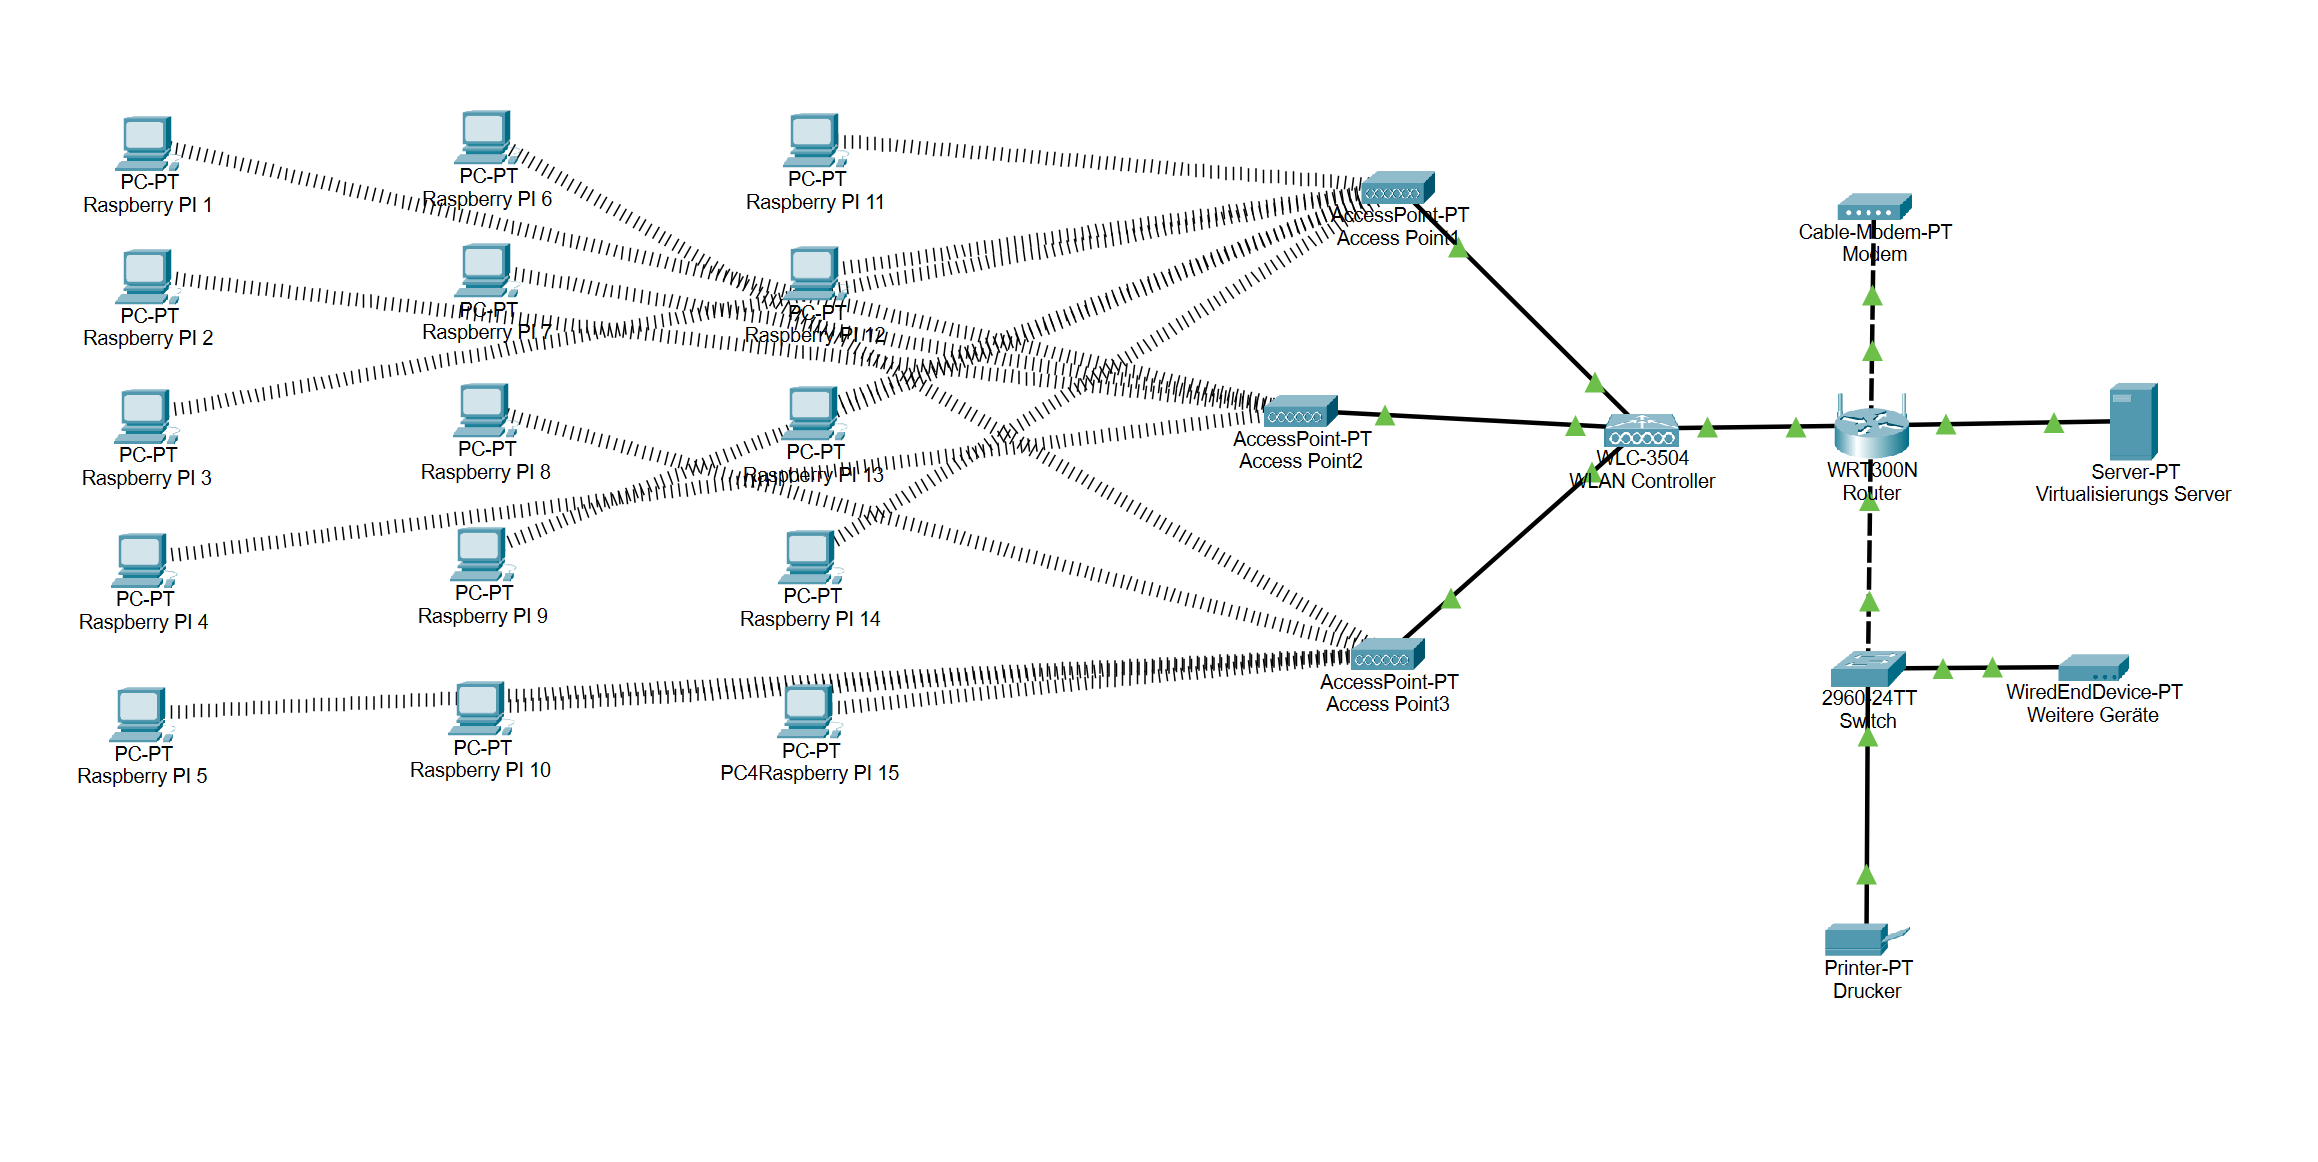
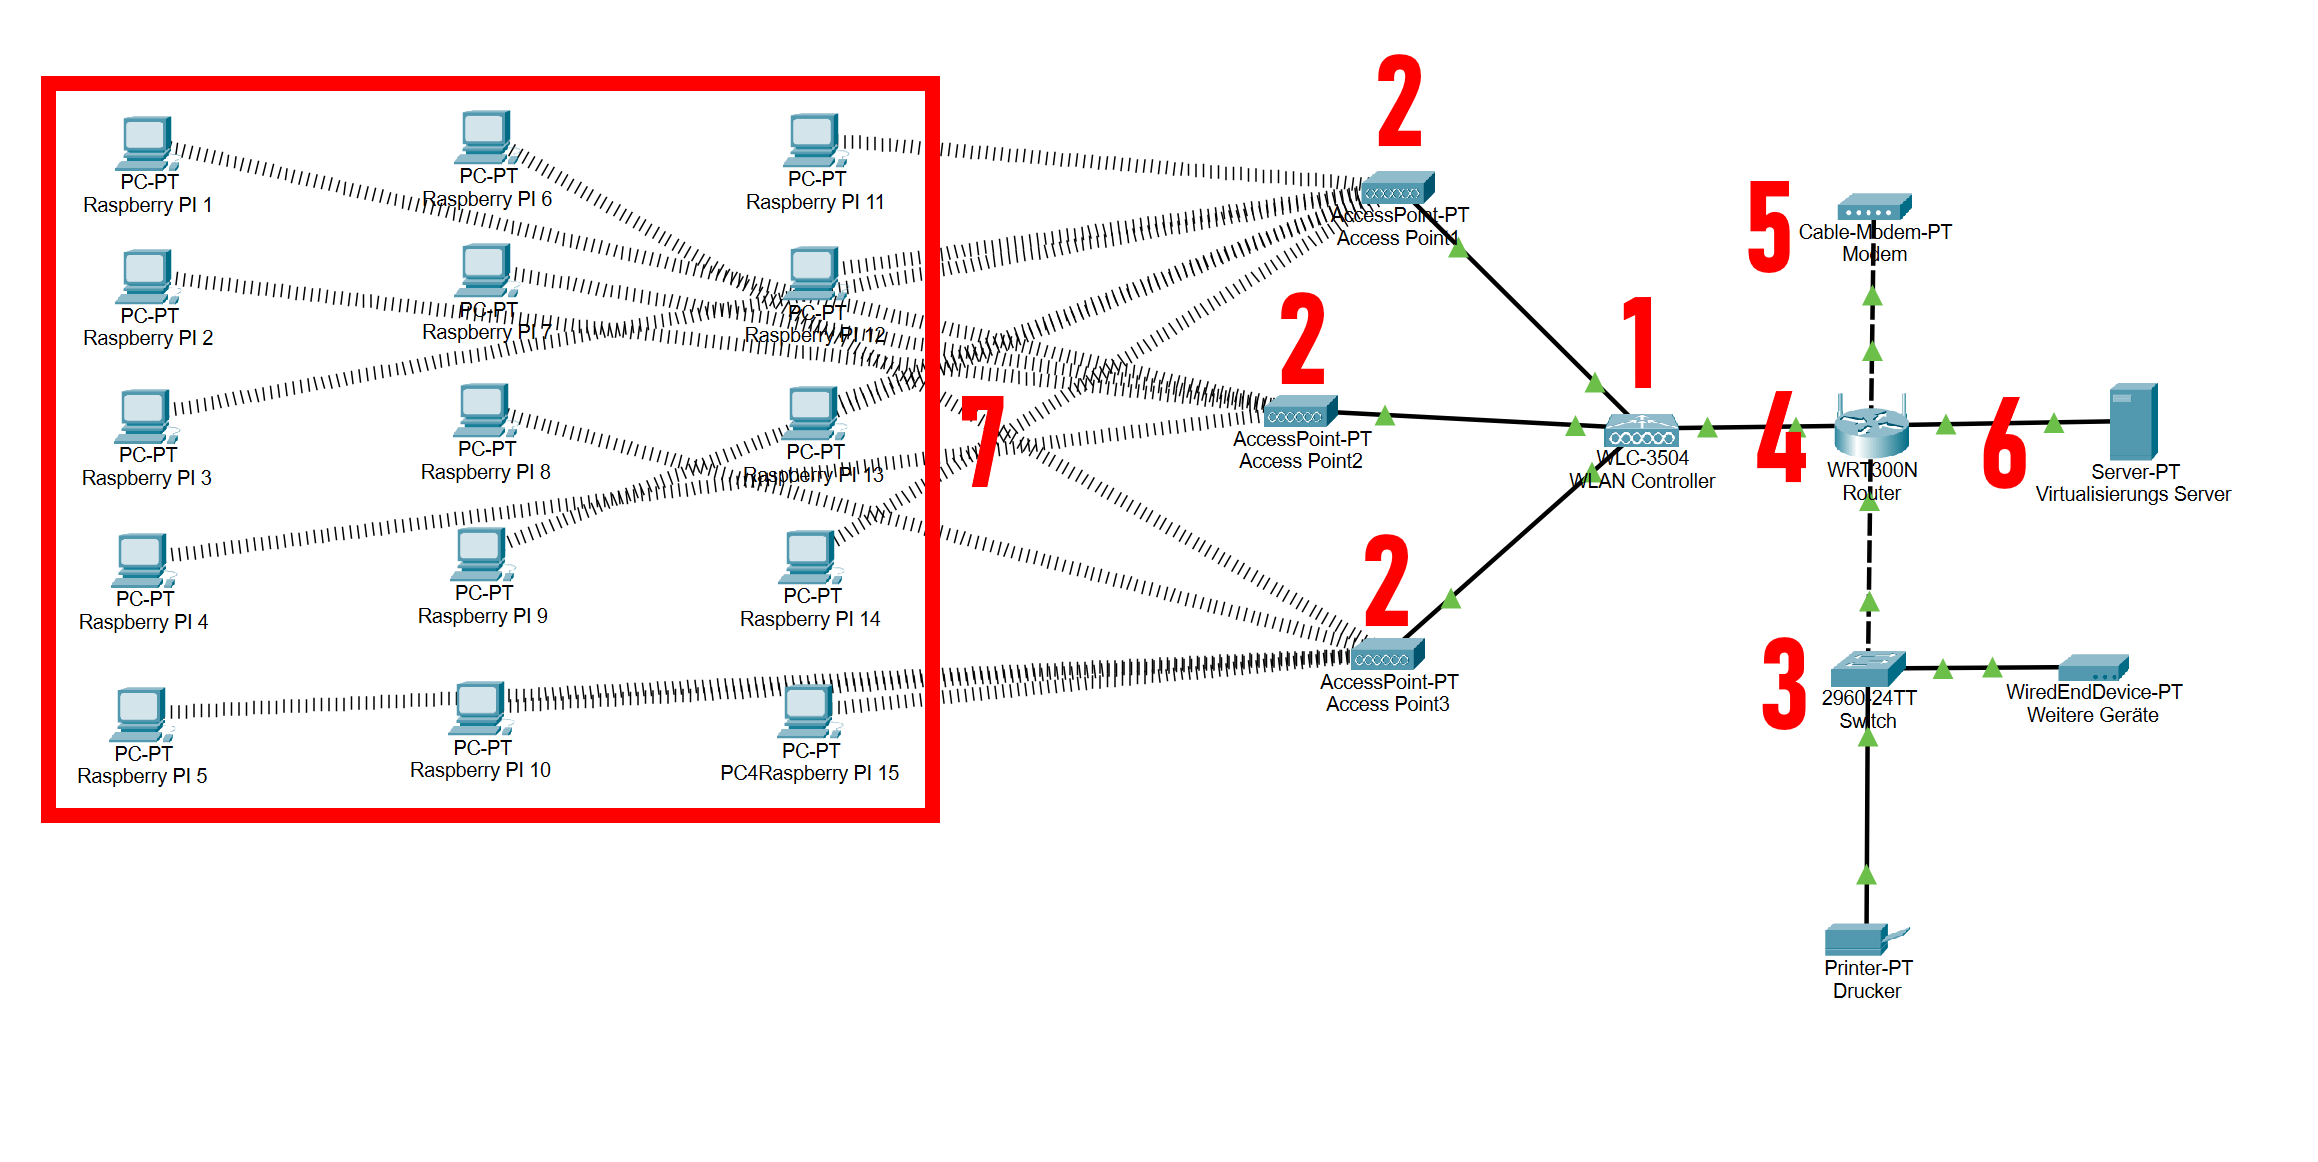
Updated README and Images

diff --git a/README.md b/README.md
@@ -53,7 +53,19 @@ Die Umsetzung des Projekts kann sich etwas schwierig gestalten, da mehrere Raspb
 
 Die Umsetzung in Form eines Prototypen bzw. mehrereren Prototypen könnte möglich sein, wenn sie in einem kleineren Rahmen, als in einer Primarklasse mit etwa zwanzig Schülern, erfolgt. Der Computer wäre nicht besonders leistungsfähig und es gäbe nur etwa drei Rasperry Pi, Monitore, Peripheriegeräte und die notwendige Verkabelung.
 
-![Picture of visualisation](assets/Cisco.png)
+## Netzwerk
 
 Die Topologie oder auch das Rechennetz wird als Stern-Topologie durchgehen, da mit einem zentralen Server gearbeitet wird. Die Stern-Topologie ist inzwischen die verbreiteteste Verkabelungstopologie.
+
+![Picture of visualisation](assets/Cisco.png)
+
+- 1. WLAN-Controller
+- 2. Access Points
+- 3. Switch
+- 4. Router
+- 5. Modem
+- 6. Server
+- 7. Raspberry Pi's
+
+Ein Wireless LAN-Controller oder WLAN-Controller überwacht und verwaltet drahtlose Zugangspunkte in großen Datenmengen und ermöglicht drahtlosen Geräten die Verbindung mit WLAN, einer drahtlosen Netzwerkarchitektur. Als zentrales Gerät im Netzwerk befindet sich der WLAN-Controller in der Regel im Rechenzentrum, mit dem alle drahtlosen APs im Netzwerk direkt oder indirekt verbunden sind.
 
